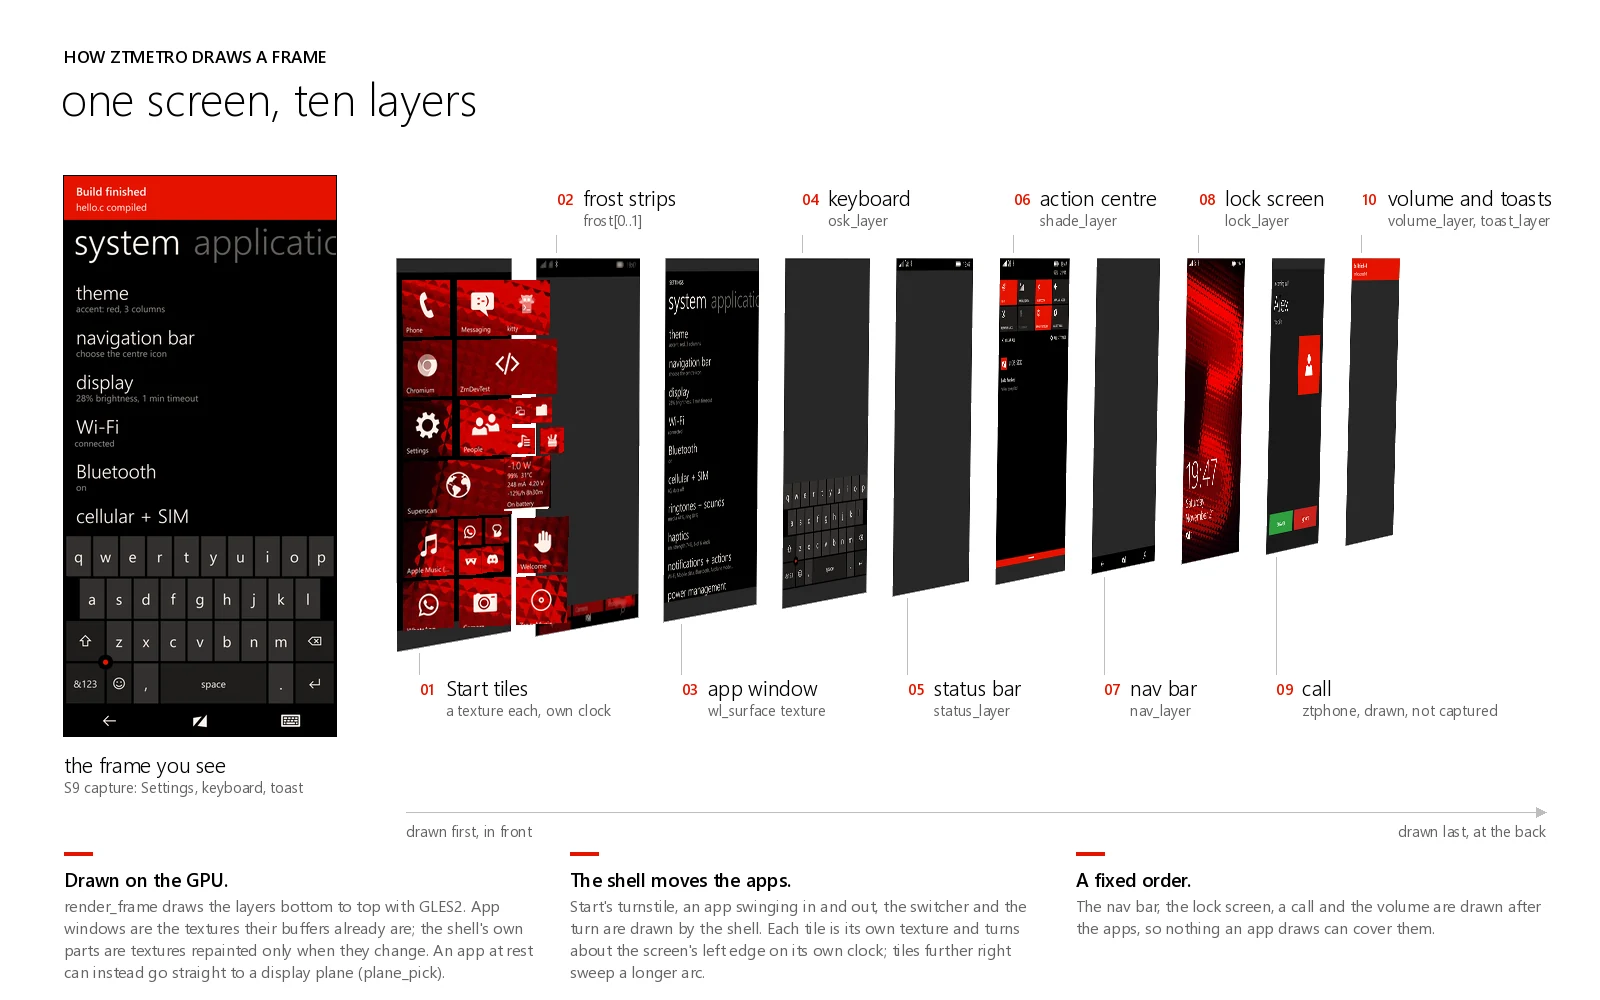
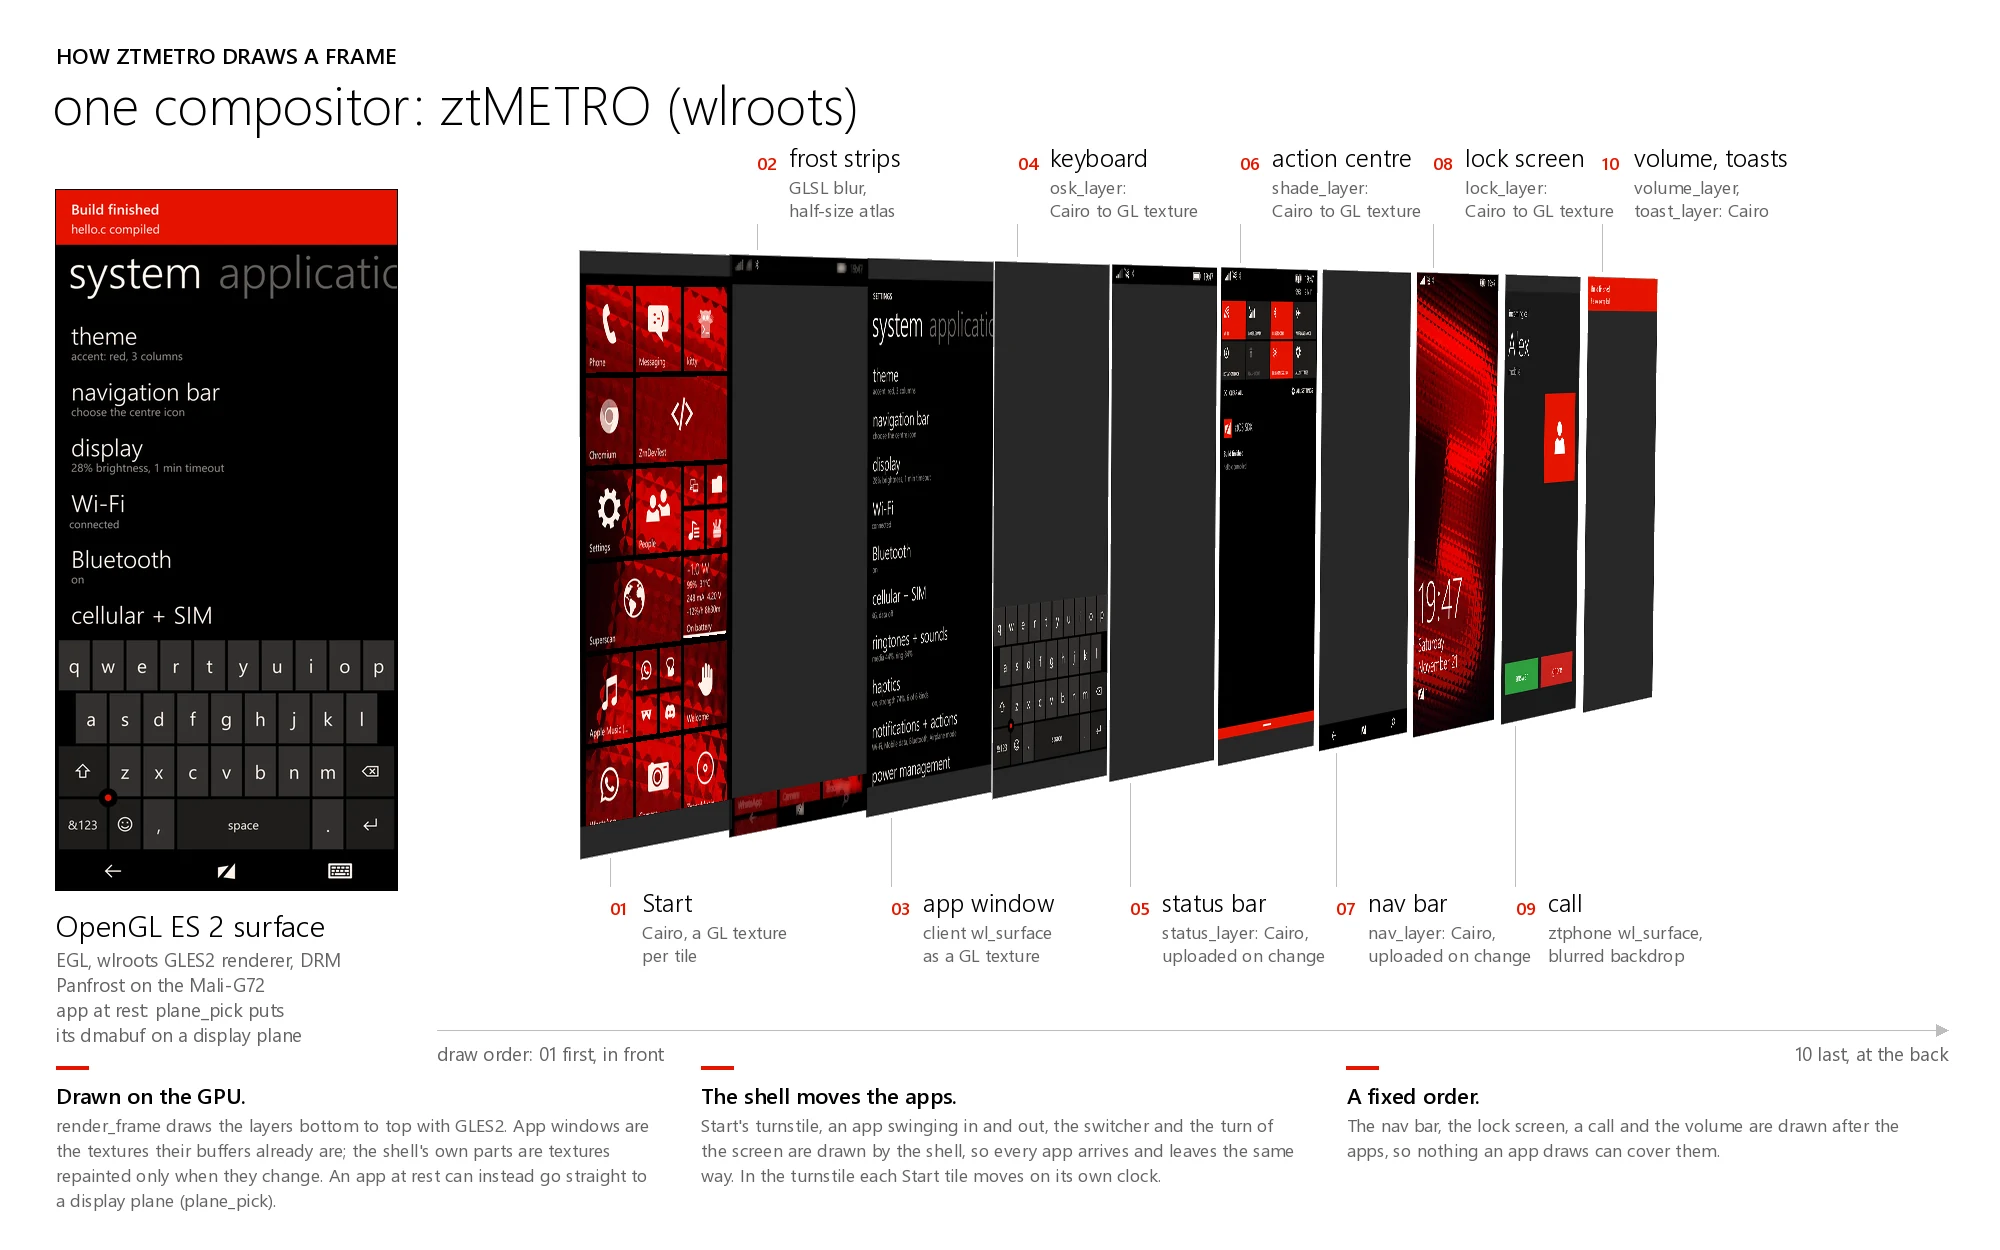
Docs: composition picture with bigger layers and technical labels (#5)

diff --git a/docs/composition.md b/docs/composition.md
@@ -7,7 +7,7 @@ ztMETRO is the ztOS Mobile shell and its Wayland compositor in one program. Ever
   <img src="img/shell-layers-light.webp" width="800" alt="A ztMETRO frame captured on a Galaxy S9 at the left and its ten layers spread out in perspective to the right, layer 01 in front: Start and the app list, frost strips, app window, keyboard, status bar, action centre, nav bar, lock screen, call, volume and toasts">
 </picture>
 
-The layers are screenshots of ztMETRO on a Galaxy S9, cut apart along the shell's own lines; layer 01, painted first, is in front, and Start is cut into its tiles, because each tile is its own texture that turns about the screen's left edge on its own clock. Wi-Fi and carrier names are covered and the action centre's notification is replaced with a demo one. The call screen is drawn with zrnui, not captured. The picture is generated by `gen/layers.py` in [zrn-sdk-site](https://github.com/Zerone-Laboratories/zrn-sdk-site). The order and the names below come from `render_frame` in `ztmetro/ztmetro.c` of ztOSMobile, read on 21 November 2026. When the shell changes, check them again.
+The layers are screenshots of ztMETRO on a Galaxy S9, cut apart along the shell's own lines; layer 01, painted first, is in front, and Start is built from its tiles, each its own texture, in their places. Wi-Fi and carrier names are covered and the action centre's notification is replaced with a demo one. The call screen is drawn with zrnui, not captured. The picture is generated by `gen/layers.py` in [zrn-sdk-site](https://github.com/Zerone-Laboratories/zrn-sdk-site). The order and the names below come from `render_frame` in `ztmetro/ztmetro.c` of ztOSMobile, read on 21 November 2026. When the shell changes, check them again.
 
 ## The order, bottom to top
 
@@ -16,7 +16,7 @@ A later layer covers an earlier one. The numbers are the picture's; a dash marks
 | # | Layer | What the shell draws | In the code |
 |---|---|---|---|
 | – | Background | The screen cleared to the shell background (white in Light, black in Dark). Only the gaps between Start's tiles show it. | `glClear`, `shell_bg_color` |
-| 01 | Start and the app list | The tiles, each its own texture: for the turnstile each turns about the screen's left edge on its own clock; tiles further right sweep a longer arc (clocks by row from the bottom, small tiles early, the top-left last, a little jitter). And the list beside them. Not drawn while an app at rest or the lock screen covers them. | tiles, items; skipped on `app_covers`, `lock_covers` |
+| 01 | Start and the app list | The tiles, each its own texture, and the list beside them. In the turnstile each tile moves on its own clock. Not drawn while an app at rest or the lock screen covers them. | tiles, items; skipped on `app_covers`, `lock_covers` |
 | 02 | Frost strips | What of Start and the list passes under the status bar and the nav bar, blurred into two strips right after Start is drawn, and blurred again only when that changes. Each strip is laid just under its own bar (05 and 07), as its backing. Over an app the bars are opaque and there is no frost. | `frost_prepare`, `frost[0]`, `frost[1]` |
 | 03 | App window | The app's buffer, already a GPU texture, drawn as a quad between the bars. Or the switcher's cards, or the launch flip in landscape. | `draw_app_surface` |
 | – | Hyperscan | The shell's search page, when it is up. | `hyper_layer` |
